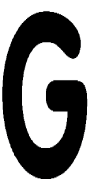
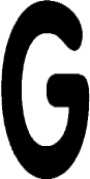
recropped letters1 images

diff --git a/fake_plate_generator.py b/fake_plate_generator.py
@@ -24,8 +24,8 @@ brightness = args.brightness
 motion_blur = args.motion_blur
 fake_resource_dir  = sys.path[0] + "/fake_resource/" 
 #output_dir = sys.path[0] + "/test_plate/"
-number_dir = [fake_resource_dir + "/numbers/",fake_resource_dir + "/numbers1/" ]
-letter_dir = [fake_resource_dir + "/letters/" ,fake_resource_dir + "/letters1/"]
+number_dir = [fake_resource_dir + "/numbers/",fake_resource_dir + "/numbers1/", fake_resource_dir + "/numbers2/"]
+letter_dir = [fake_resource_dir + "/letters/" ,fake_resource_dir + "/letters1/", fake_resource_dir + "letters2/"]
 plate_dir = [fake_resource_dir + "/plate_background_use/", fake_resource_dir + "/plate_background_use1/"]
 screw_dir = [fake_resource_dir + "/screw/", fake_resource_dir + "/screw1/"]
 
@@ -132,6 +132,7 @@ class FakePlateGenerator():
         ret, mask = cv2.threshold(a_channel, 100, 255, cv2.THRESH_BINARY)
 
         overlay_img(character, plate, mask, start_x, start_y)
+        return start_x, start_y
 
     def generate_one_plate(self):
         #self.character_position_x_list = self.character_position_x_listOG
@@ -145,13 +146,13 @@ class FakePlateGenerator():
         #i = (len(self.character_position_x_list) - num)//2 - 1
         
         i = 6 - num
-        character, img = self.get_radom_sample(self.letters)
-        self.add_character_to_plateTop(img, plate_img, self.character_position_x_listTop[0])
+        character, img1 = self.get_radom_sample(self.letters)
+        start_x_Top1,start_y_Top1 = self.add_character_to_plateTop(img1, plate_img, self.character_position_x_listTop[0])
         plate_name += "%s"%(character,)
         plate_chars += character
 
-        character, img = self.get_radom_sample(self.letters)
-        self.add_character_to_plateTop(img, plate_img, self.character_position_x_listTop[1])
+        character, img2 = self.get_radom_sample(self.letters)
+        start_x_Top2,start_y_Top2 = self.add_character_to_plateTop(img2, plate_img, self.character_position_x_listTop[1])
         plate_name += "%s"%(character,)
         plate_chars += character
 
@@ -183,6 +184,11 @@ class FakePlateGenerator():
         plate_img = cv2.cvtColor(plate_img, cv2.COLOR_BGRA2BGR)
   
         #转换到目标大小
+        pt1 = (start_x_Top1,start_y_Top1)
+        pt2 = (start_x_Top2 + img2.shape[1],20 + 140)
+        cv2.rectangle(plate_img, pt1,pt2, (255,0,0), 5)
+        cv2.imshow(' ', plate_img)
+        cv2.waitKey(0)
         plate_img = cv2.resize(plate_img, self.dst_size, interpolation = cv2.INTER_AREA)
 
         return plate_img, plate_name, plate_chars
